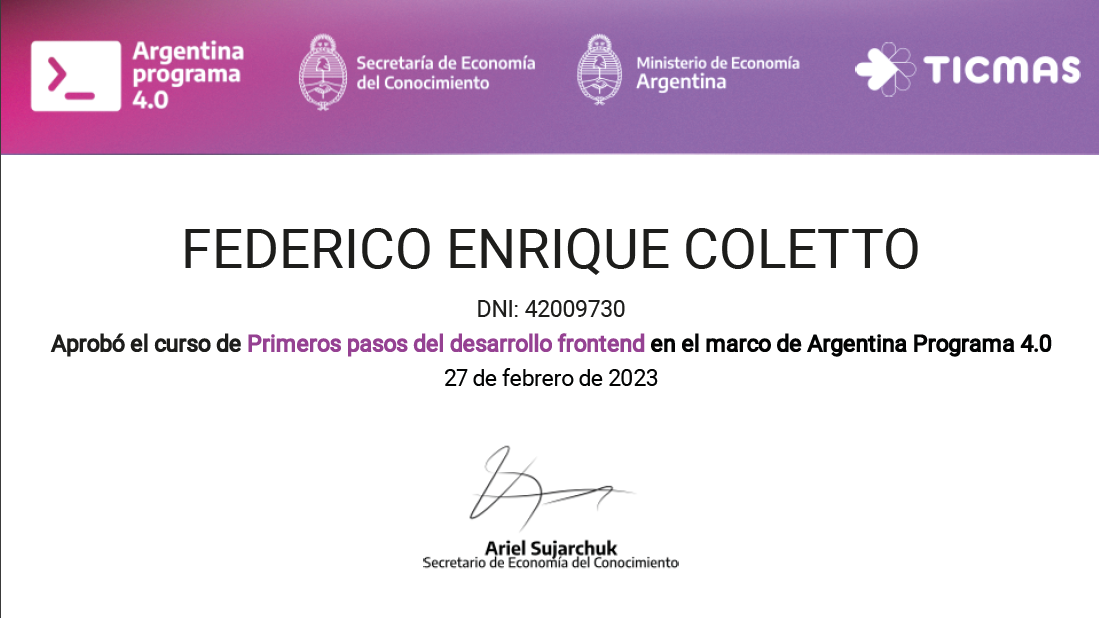
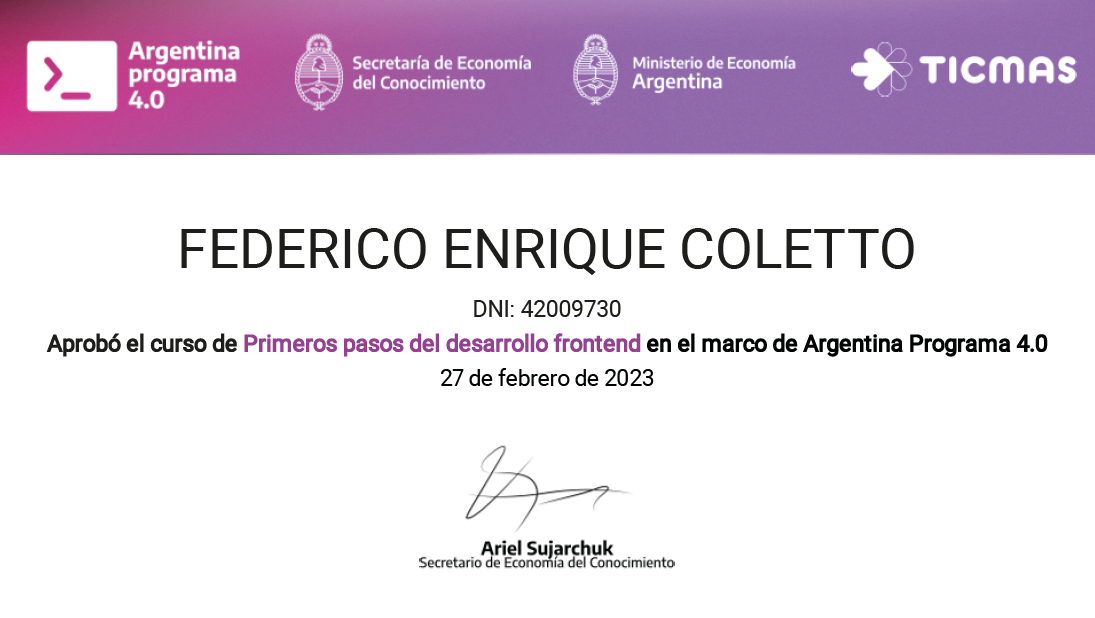
certificates part

diff --git a/src/components/Parts/CertificatesPart.jsx b/src/components/Parts/CertificatesPart.jsx
@@ -1,19 +1,13 @@
 import '../styles/Parts/CertificatesPart.css'
-import { useState } from "react";
+import { useEffect, useState } from "react";
 
 const CertificatesPart = () => {
-	const [showCertificate, setShowCertificate] = useState(false);
-	const [showSkills, setShowSkills] = useState(false);
-	const handleShowSkills = (e) => {
-		e.stopPropagation()
-		setShowSkills(!showSkills)
-	}
 
 	const certificates = [
 		{
 			id: 1,
 			title: 'Primeros Pasos del Desarrollo Frontend',
-			image: '/public/certificates-imges/ticmas1.png',
+			image: '/certificates-imges/ticmas1.png',
 			issue_date: '27.02.2023',
 			institution: 'Ticmas',
 			certificate_id: '18aa8ad6-940b-428e-8fe1-dbbcaacb37ae',
@@ -28,7 +22,7 @@ const CertificatesPart = () => {
 		{
 			id: 2,
 			title: 'Fundamentos de Desarrollo Web',
-			image: '/public/certificates-imges/fundamentos-de-desarrollo-web.png',
+			image: '/certificates-imges/fundamentos-de-desarrollo-web.png',
 			issue_date: '14.04.2023',
 			institution: 'Academlo',
 			certificate_id: '18366315288126',
@@ -45,7 +39,7 @@ const CertificatesPart = () => {
 		{
 			id: 3,
 			title: 'Desarrollo de Aplicaciones Web con React',
-			image: '/public/certificates-imges/apps-react.png',
+			image: '/certificates-imges/apps-react.png',
 			issue_date: '14.04.2023',
 			institution: 'Academlo',
 			certificate_id: '48572812898340',
@@ -63,10 +57,28 @@ const CertificatesPart = () => {
 		},
 	]
 
-	console.log(showSkills)
+	const [shownCertificate, setShownCertificate] = useState(null);
+
+	const handleShowClick = (e) => {
+		e.stopPropagation()
+		const certifId = +e.target.className.split(' ')[4]
+		setShownCertificate(certifId)
+		if (shownCertificate !== certifId) {
+			setShownCertificate(certifId)
+		} else {
+			setShownCertificate(null)
+		}
+	}
+
+
+	useEffect(() => {
+		console.log(shownCertificate)
+	}, [shownCertificate]);
 
 	return (
-		<div id="certificates" className="part certificates" onClick={() => setShowSkills(false)}>
+		<div id="certificates" className="part certificates"
+			onClick={() => setShownCertificate(null)}
+		>
 			<div className="part__container certificates">
 				<header className="part__header">
 					<h1 className="part__title">Mis certificados</h1>
@@ -74,32 +86,39 @@ const CertificatesPart = () => {
 				<div className="part__body certificates__container">
 					{
 						certificates.map(certif => (
-							<div className='certificate' key={certif.id} onClick={() => setShowCertificate(true)}>
-								<h2 className="certificate__title">{certif.title}</h2>
-								<div className="certificate__image">
-									<img src={certif.image} alt={certif.title} />
+							<div className={`certificates ${shownCertificate ? 'active' : ''}`} key={certif.id}>
+								<div className="certificate__header">
+									<h2 className="certificate__title">{certif.title}</h2>
+									<i className={`show-skills__button fa-solid fa-circle-down sm ${certif.id} ${shownCertificate === certif.id && 'hide'}`} onClick={handleShowClick}></i>
 								</div>
-								<ul className='certificate__info'>
-									<li className="certificate__year"><span>Año: </span>{certif.issue_date}</li>
-									<li className="certificate__institution"><span>Institución: </span>{certif.institution}</li>
-									<li className="certificate__grade"><span>Nota: </span>{certif.grade}</li>
-								</ul>
-								<i className="show-skills__button fa-solid fa-circle-down" onClick={handleShowSkills}></i>
-								<ul className="certificate__skills">
-								{ showSkills
-									?
-									certif.skills_learned.map((sk, i) => (
-										<li key={i} className={`certificate__skill ${showSkills ? 'active' : ''}`}>{sk}</li>
-									))
-									: ''
+								{
+									shownCertificate === certif.id && (
+										<div className='certificate__details'>
+											<div className="certificate__image">
+												<img src={certif.image} alt={certif.title} />
+											</div>
+											<ul className='certificate__info-ul'>
+												<li className="certificate__info-li sm"><span className='sm'>Año </span>{certif.issue_date}</li>
+												<li className="certificate__info-li sm"><span className='sm'>Institución </span>{certif.institution}</li>
+												<li className="certificate__info-li sm"><span className='sm'>Nota </span>{certif.grade}</li>
+											</ul>
+											<ul className="skills__learned-ul">
+												<h2 className="skills__learned-h2 sm">Lenguajes, librerías y frameworks aprendidos</h2>
+												{
+													certif.skills_learned.map((sk, i) => (
+														<li key={i} className={`skills__learned-li sm`}>{sk}</li>
+													))
+												}
+											</ul>
+										</div>
+									)
 								}
-								</ul>
 							</div>
 						))
 					}
 				</div>
 			</div>
-		</div>
+		</div >
 	)
 };
 

diff --git a/src/components/styles/Parts/CertificatesPart.css b/src/components/styles/Parts/CertificatesPart.css
@@ -1,140 +1,91 @@
+.part__container.certificates {
+	min-height: 100vh;
+	justify-content: start;
+}
+
 .certificates__container {
-	display: grid;
-	grid-template-columns: repeat(auto-fill, minmax(17rem, 1fr));
-	gap: 1rem;
-}
-
-.certificate {
-	overflow: hidden;
-	border-radius: 1rem;
-	padding: 1rem;
-	background-color: var(--borders);
-	border: 2px solid var(--borders);
 	display: flex;
-	flex-direction: column;
+	flex-direction: column-reverse;
 	gap: 1rem;
-	transform: scale(1);
-	transition: transform .3s, padding .4s, all .4s;
-	position: relative;
+	padding: 1rem 0;
 }
 
-.certificate:hover {
-	transform: scale(.97);
+.certificates {
+	border-bottom: 2px solid var(--borders);
 }
 
+.certificate__header {
+	border-top-left-radius: 1rem;
+	border-top-right-radius: 1rem;
+	padding: .5rem;
+	background-color: var(--main-blue);
+}
 
 .certificate__title {
-	display: flex;
-	align-items: flex-start;
-	height: 2.5rem;
-}
-
-.certificate__image {
-	background-color: #fff;
-	margin: 0 1rem;
-	width: auto;
-	height: 10rem;
-	display: flex;
-	align-items: flex-start;
-	justify-content: center;
-}
-
-.certificate__image img {
-	height: 100%;
-
-}
-
-.certificate__info {
-	width: 100%;
-	height: 5rem;
-	display: flex;
-	flex-direction: column;
-	align-items: center;
-	justify-content: space-between;
-}
-
-.certificate__info li {
-	/* background-color: var(--main-black); */
-	width: 100%;
-	display: flex;
-	justify-content: space-between;
-}
-
-.certificate__year {
-	/* text-align: start; */
-}
-
-.certificate__institution {
-	/* text-align: start; */
-}
-
-.certificate__grade {
-	/* text-align: start; */
+	color: var(--main-white);
 }
 
 .show-skills__button {
-	height: .5rem;
-	display: grid;
-	place-content: center;
-}
-
-.certificate__skills {
-	height: auto;
-	display: flex;
-	flex-flow: column wrap;
-	justify-content: flex-start;
-	gap: .4rem;
 	position: relative;
-	transition: all 1s;
-}
-
-.certificate__skill {
-	font-family: 'Poppins', sans-serif;
-	font-weight: 400;
-	/* position: absolute; */
-	height: 0;
+	left: 50%;
+	transform: translateX(-50%);
+	opacity: 1;
+	color: var(--main-white);
+	transition: color .3s;
+	cursor: pointer;
+	background-color: var(--main-white);
+	width: 100%;
+	text-align: center;
+	border-radius: 1rem;
 	transition: all .3s;
 }
 
-.certificate__skill.active {
-	/* position: relative; */
-	height: auto;
+.show-skills__button:hover,
+.show-skills__button:active {
+	color: var(--main-black);
+	background-color: var(--main-white);
+	padding: .3rem;
+}
+.show-skills__button.hide {
+	opacity: 0;
 }
 
-/* * skills */
-.hero__center.skills {
-	left: 100%;
+.certificate__details {
+	background-color: #fff;
+	padding: 1rem 1rem .5rem;
 }
 
-.hero__center-text.skills {
-	display: flex;
-	gap: .5rem;
-}
-
-.skill {
-	display: grid;
-	grid-template-rows: 3rem 2rem;
-	min-width: 4rem;
-	max-width: 8rem;
-	row-gap: .5rem;
-}
-
-.skill__img {
+.certificate__image img {
 	width: 100%;
-	height: 100%;
-	object-fit: contain;
-	background-color: transparent;
 }
 
-.skill__name {
-	display: grid;
-	place-content: center;
-	place-items: end;
-	text-align: center;
+.certificate__info-ul {
+	border-bottom: 2px solid var(--borders);
+	border-top: 2px solid var(--borders);
+	margin-top: .7rem;
 }
-.skill__p {
-	font-size: .7rem;
-	letter-spacing: 1px;
-	font-family: 'Poppins', sans-serif;
-	font-weight: 500;
+
+.certificate__info-li {
+	margin: .2rem 0;
+	display: flex;
+	justify-content: space-between;
+}
+
+
+/* + skills__learned */
+.skills__learned-ul {
+}
+
+.skills__learned-h2 {
+	margin: .6rem 0 .4rem;
+}
+
+li.skills__learned-li {
+	list-style: inside;
+	margin: .2rem 0;
+	margin-left: .6rem;
+}
+
+.sm {
+	font-size: .8rem;
 }

diff --git a/src/components/styles/HeroesSection.css b/src/components/styles/HeroesSection.css
@@ -233,3 +233,40 @@
 		grid-column: 3/4;
 	}
 }
+
+/* + skills hero */
+.hero__center.skills {
+	left: 100%;
+}
+
+.hero__center-text.skills {
+	display: flex;
+	gap: .5rem;
+}
+
+.skill {
+	display: grid;
+	grid-template-rows: 3rem 2rem;
+	min-width: 4rem;
+	max-width: 8rem;
+	row-gap: .5rem;
+}
+
+.skill__img {
+	width: 100%;
+	height: 100%;
+	object-fit: contain;
+	background-color: transparent;
+}
+
+.skill__name {
+	display: grid;
+	place-content: center;
+	place-items: end;
+	text-align: center;
+}
+
+.skill__p {
+	font-size: .7rem;
+	font-weight: 500;
+}

diff --git a/src/index.css b/src/index.css
@@ -106,11 +106,12 @@ button {
 	margin: auto;
 	border-radius: 1rem;
 	border: 2px solid var(--borders);
+	cursor: pointer;
 }
 
 .part__title {
 	font-size: 1.3rem;
-	margin-bottom: .5rem;
+	margin-bottom: 1rem;
 }
 
 .hero__text.left {
